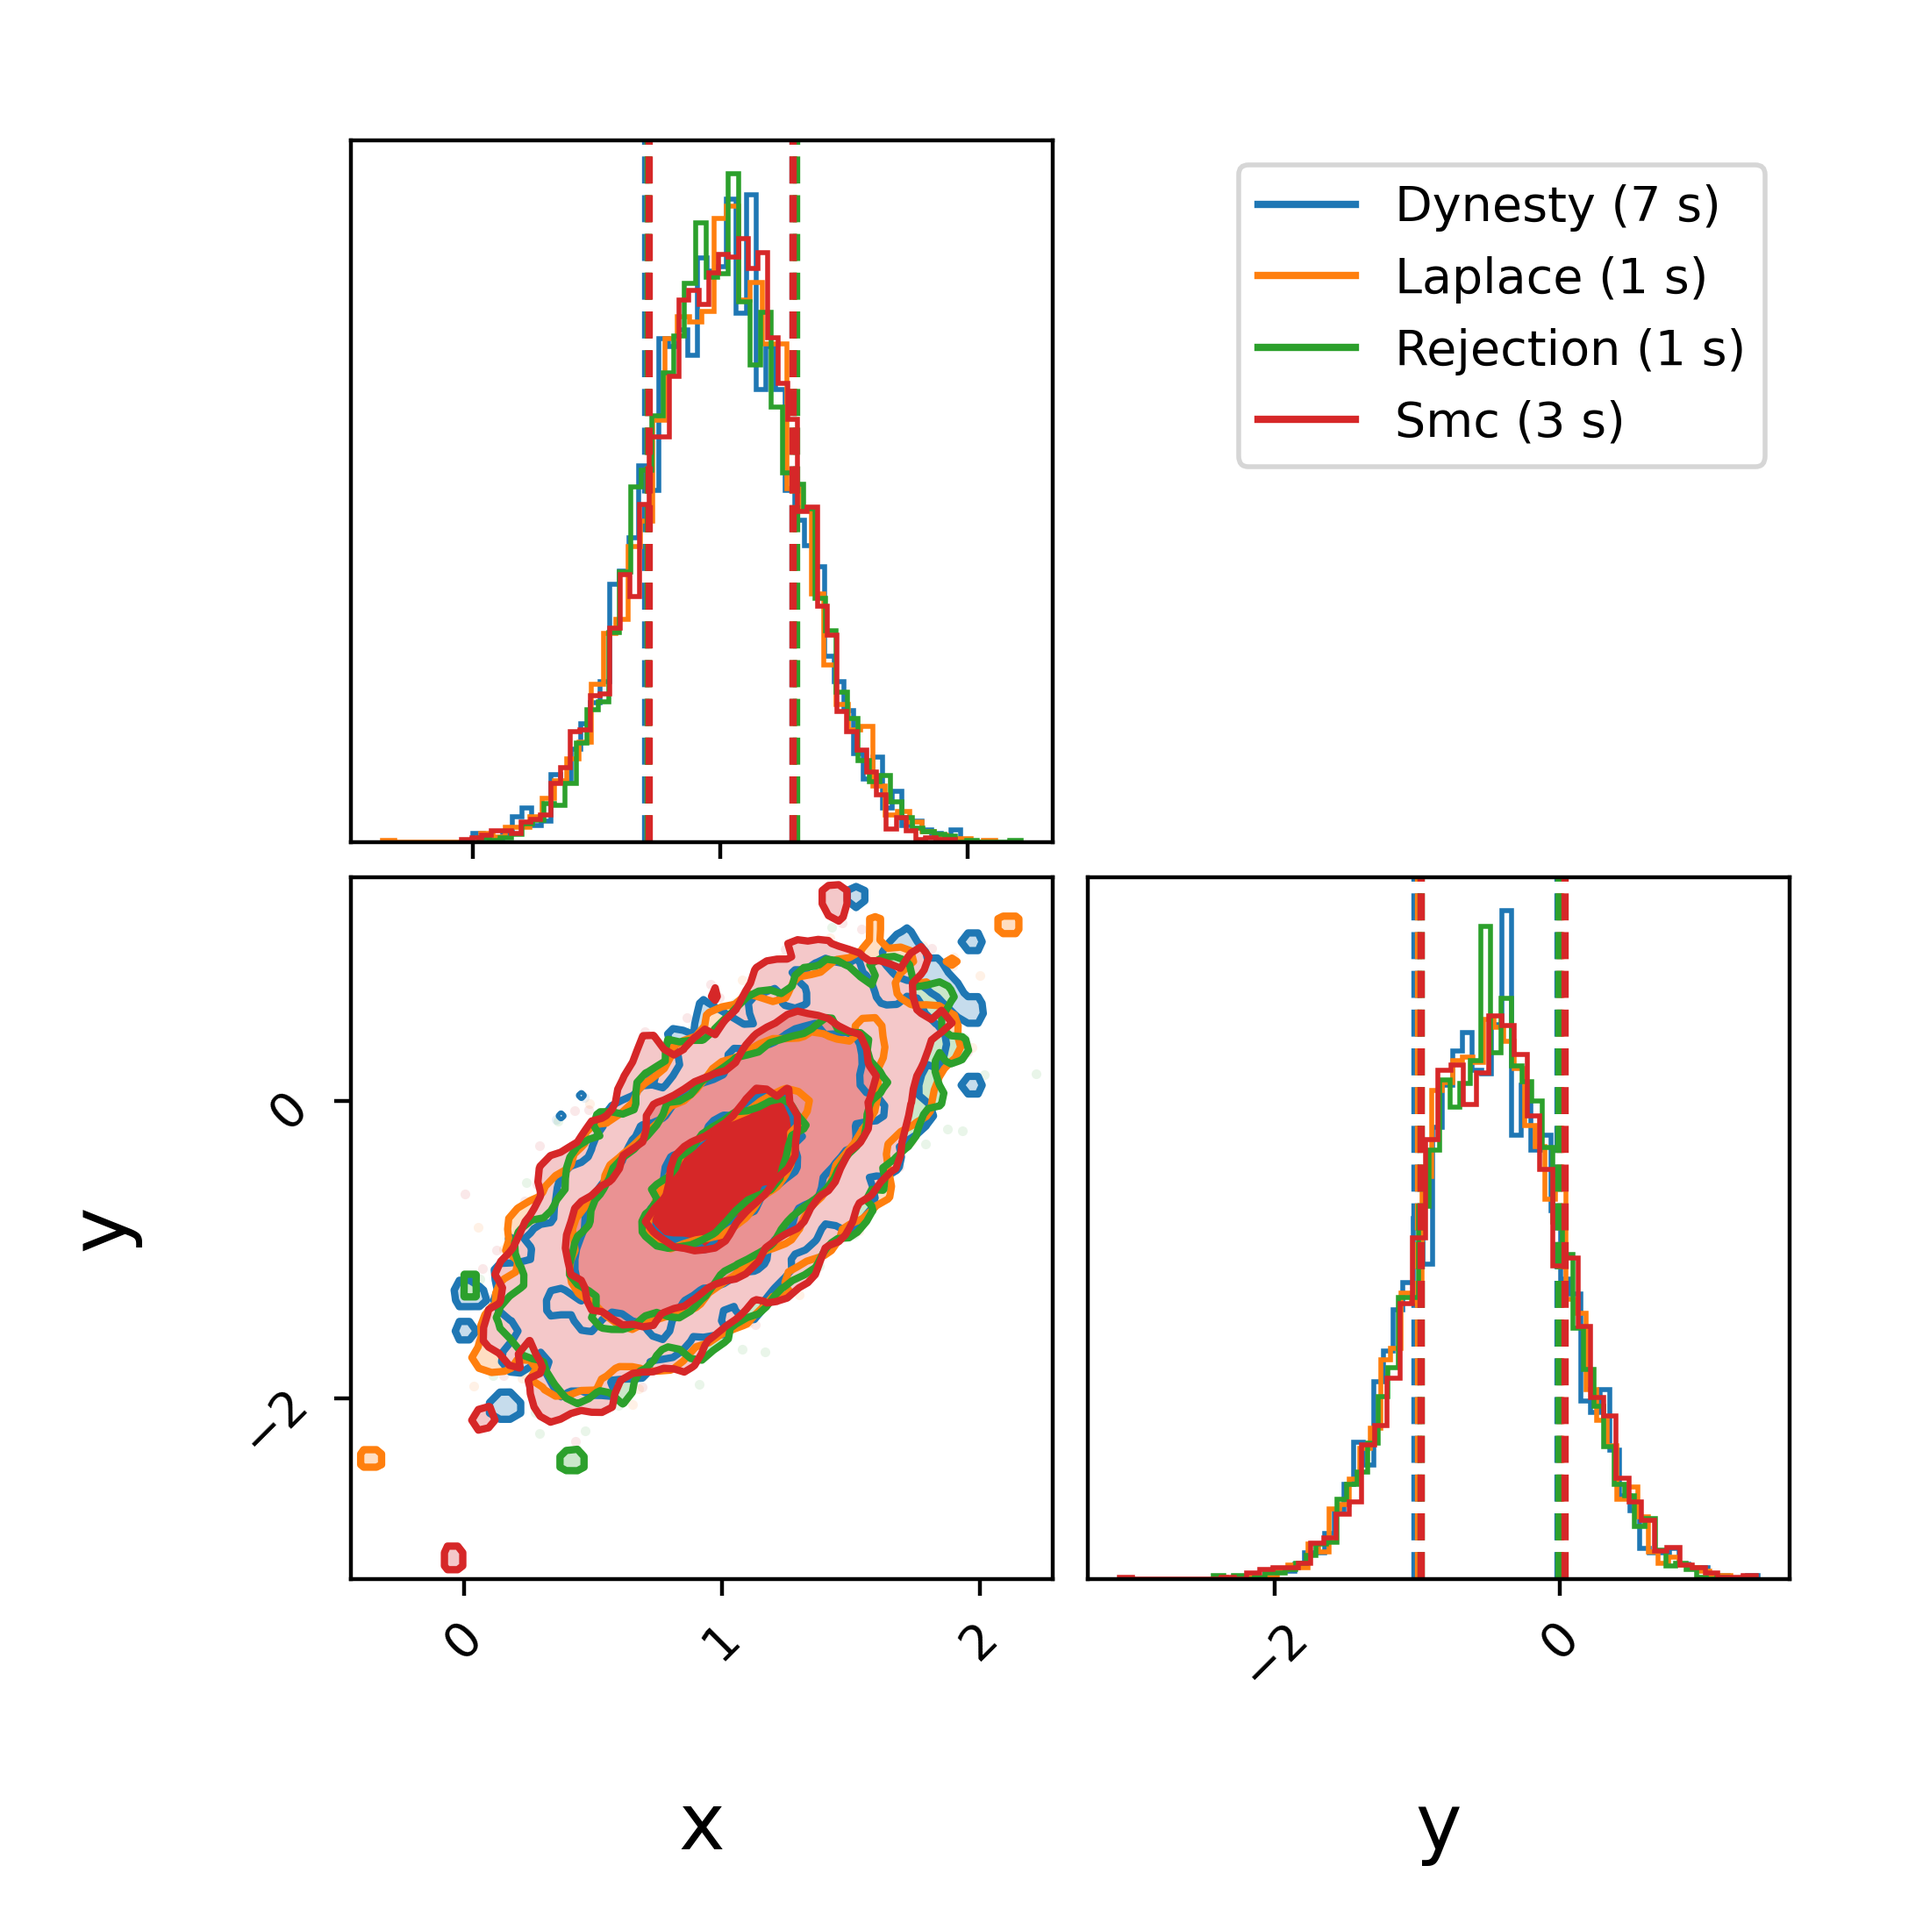
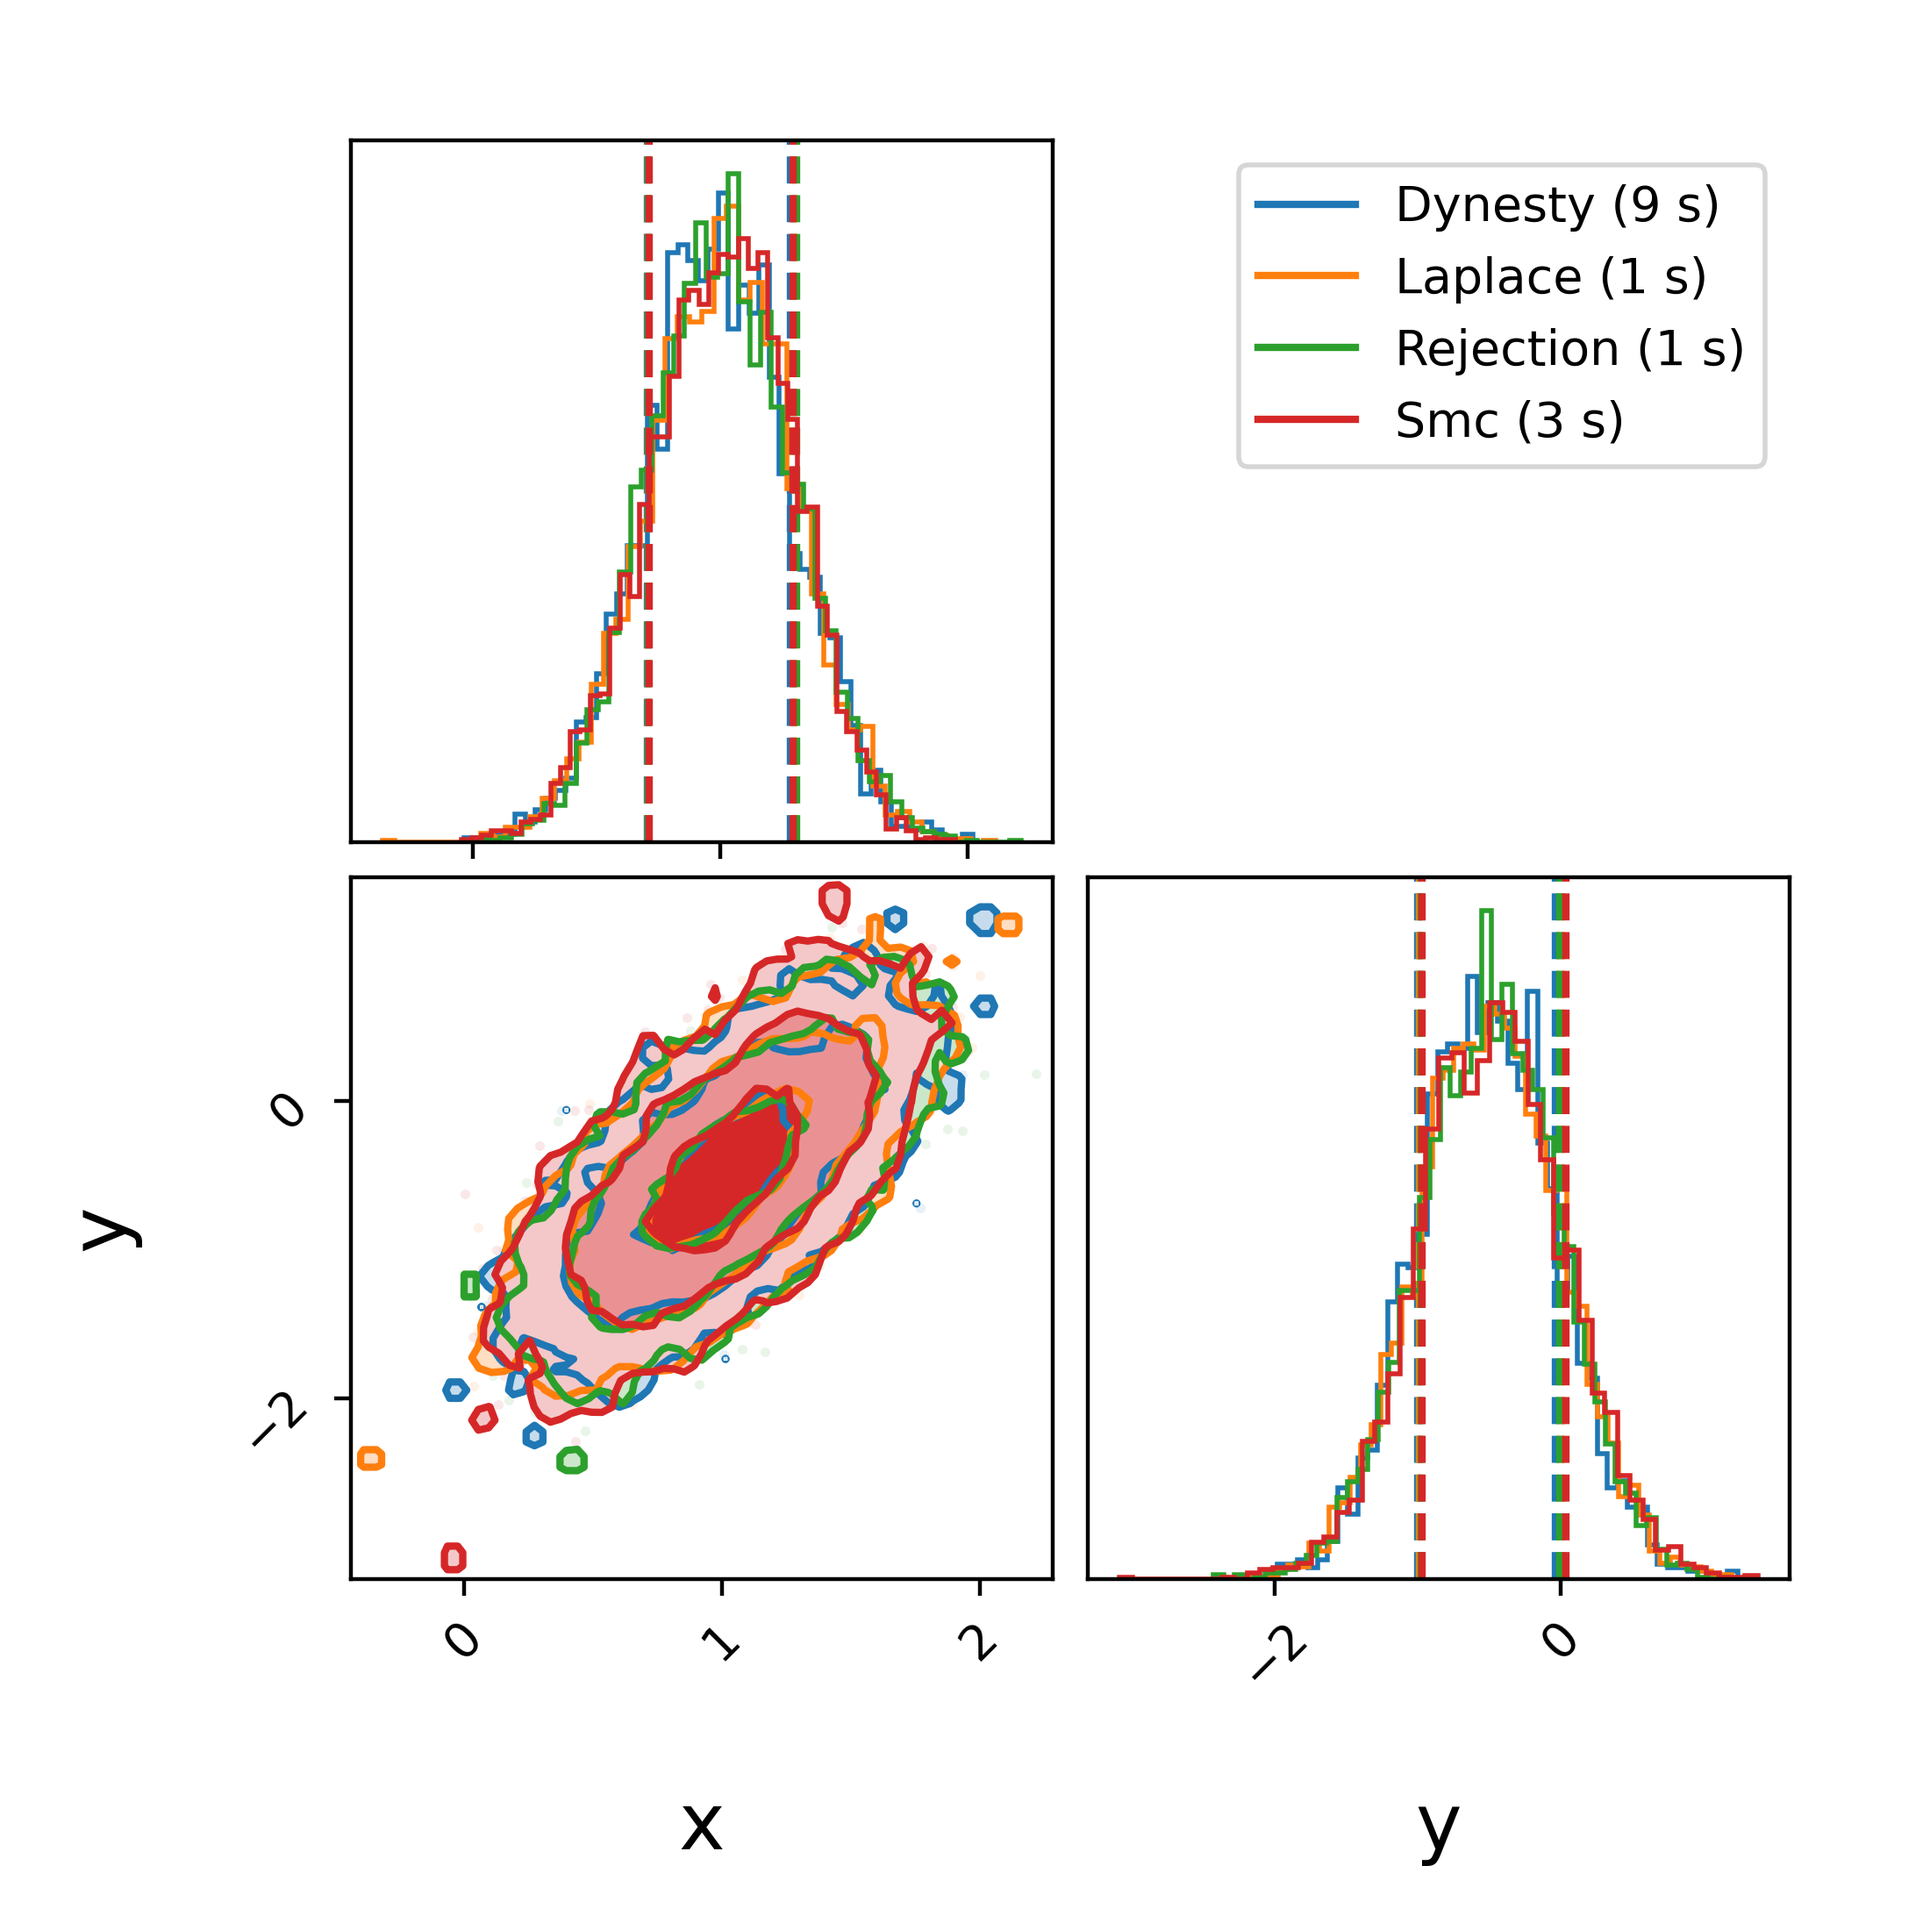
Clean up the examples

diff --git a/examples/hlv_example.py b/examples/hlv_example.py
@@ -10,9 +10,9 @@ and Gaussian noise is generated internally.
 
 Usage
 -----
-    python examples/injection_HLV.py --sampler laplace rejection smc dynesty
-    python examples/injection_HLV.py --sampler smc
-    python examples/injection_HLV.py --compare
+    python examples/hlv_example.py --sampler laplace rejection smc dynesty
+    python examples/hlv_example.py --sampler smc
+    python examples/hlv_example.py --compare
 """
 
 import argparse
@@ -31,8 +31,8 @@ from bilby.gw.prior import (
 
 logger = bilby.core.utils.logger
 bilby.core.utils.random.seed(1234)
-outdir = "outdir_injection"
-base_label = "injection"
+outdir = "outdir_hlv_example"
+base_label = "hlv"
 
 # ---------------------------------------------------------------------------
 # Injection parameters
@@ -167,15 +167,14 @@ _common_laplace = dict(
     priors=priors,
     outdir=outdir,
     injection_parameters=injection_parameters,
-    use_injection_for_maxL=True,
+    use_injection_for_map=True,
     conversion_function=bilby.gw.conversion.generate_all_bbh_parameters,
     result_class=bilby.gw.result.CBCResult,
     plot_diagnostic=True,
     clean=True,
     sampler="laplace",
-    target_nsamples=100,
-    cov_scaling=2,
-    extension="hdf5",
+    target_nsamples=1000,
+    save="hdf5",
     use_unit_cube=True,
 )
 
@@ -203,6 +202,7 @@ def run_laplace():
         **_common_laplace,
         label=f"{base_label}_laplace",
         resample="None",
+        cov_scaling=1,
     )
 
 
@@ -211,8 +211,8 @@ def run_rejection():
         **_common_laplace,
         label=f"{base_label}_rejection",
         resample="rejection",
+        cov_scaling=2,
     )
-
 
 
 def run_smc():
@@ -221,6 +221,7 @@ def run_smc():
         label=f"{base_label}_smc",
         resample="smc",
         smc_kwargs=_smc_kwargs,
+        cov_scaling=2,
     )
 
 
@@ -240,15 +241,15 @@ def run_dynesty():
         result_class=bilby.gw.result.CBCResult,
         clean=False,
         resume=True,
-        extension="hdf5",
+        save="hdf5",
     )
 
 
 def compare():
     """Load all result files in outdir, make a comparison corner plot,
-    and print an evidence comparison table."""
+    and print a comparison table."""
     pattern = os.path.join(outdir, f"{base_label}_*_result.*")
-    result_files = sorted(glob.glob(pattern))
+    result_files = sorted([f for f in glob.glob(pattern) if not f.endswith('.old')])
     if not result_files:
         logger.warning(f"No result files found matching {pattern}")
         return
@@ -272,23 +273,25 @@ def compare():
         except Exception as exc:
             logger.warning(f"Could not load {f}: {exc}")
 
-    # Evidence comparison table
-    print("\n" + "=" * 60)
-    print("Evidence comparison")
-    print("=" * 60)
-    print(f"{'Method':<25} {'log Z':>10} {'± σ':>10} {'time':>10}")
-    print("-" * 60)
+    # Comparison table
+    W = 75
+    print("\n" + "=" * W)
+    print("Comparison")
+    print("=" * W)
+    print(f"{'Method':<20} {'log Z':>10} {'± σ':>8} {'n_like':>8} {'effic.':>8} {'time':>10}")
+    print("-" * W)
     for r, lab in zip(results, labels):
-        log_z = getattr(r, "log_evidence", np.nan)
-        log_z_err = getattr(r, "log_evidence_err", np.nan)
+        log_z = getattr(r, "log_evidence", np.nan) or np.nan
+        log_z_err = getattr(r, "log_evidence_err", np.nan) or np.nan
         secs = r.sampling_time.total_seconds()
-        if log_z is None:
-            log_z = np.nan
-        if log_z_err is None:
-            log_z_err = np.nan
+        run_stats = r.meta_data.get("run_statistics", {})
+        n_like = run_stats.get("nlikelihood", np.nan)
+        eff = run_stats.get("efficiency", np.nan)
         name = r.label.replace(f"{base_label}_", "")
-        print(f"{name:<25} {log_z:>10.2f} {log_z_err:>10.2f} {secs:>9.1f}s")
-    print("=" * 60 + "\n")
+        n_like_str = f"{int(n_like):>8}" if np.isfinite(n_like) else f"{'—':>8}"
+        eff_str = f"{eff:>7.1f}%" if np.isfinite(eff) else f"{'—':>8}"
+        print(f"{name:<20} {log_z:>10.2f} {log_z_err:>8.2f} {n_like_str} {eff_str} {secs:>9.1f}s")
+    print("=" * W + "\n")
 
     if len(results) < 2:
         logger.warning(

diff --git a/examples/gaussian_example.py b/examples/gaussian_example.py
@@ -67,7 +67,7 @@ _common_laplace = dict(
     priors=priors,
     injection_parameters=injection_parameters,
     outdir=outdir,
-    use_injection_for_maxL=True,
+    use_injection_for_map=True,
     clean=True,
     sampler="laplace",
     target_nsamples=5000,

diff --git a/examples/rosenbrock_example.py b/examples/rosenbrock_example.py
@@ -79,7 +79,7 @@ _common_laplace = dict(
     priors=priors,
     injection_parameters=injection_parameters,
     outdir=outdir,
-    use_injection_for_maxL=True,
+    use_injection_for_map=True,
     clean=True,
     sampler="laplace",
     target_nsamples=5000,
